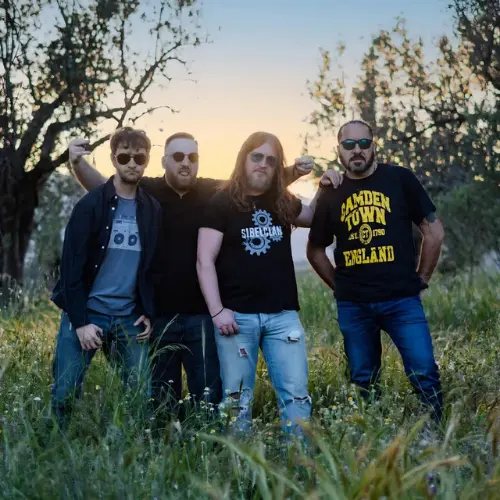
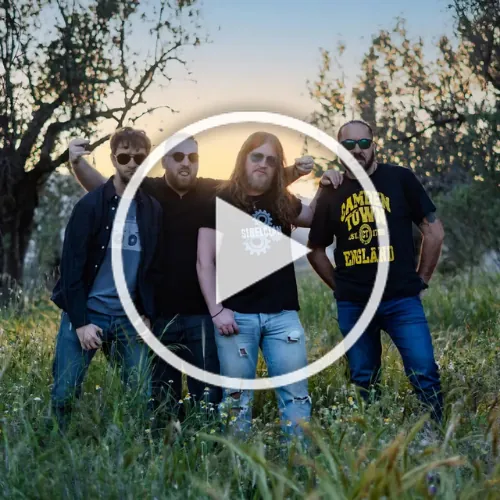
feat: add overlay to band image

Changed region(s): [[0.21, 0.21, 0.78, 0.81], [0.42, 0.39, 0.63, 0.63]]

diff --git a/themes/sibelclan/layouts/_default/landing2.html b/themes/sibelclan/layouts/_default/landing2.html
@@ -286,9 +286,7 @@
     <div id="bg"></div>
     <main>
         <div id="top">
-            
-                            <a href="https://open.spotify.com/track/{{ .Params.streaming_track_ids.spotify }}?si" target="_self" id="a" aria-label="Artwork" onclick="c(event)" data-s="spotify:track:{{ .Params.streaming_track_ids.spotify }}" data-a="intent://open.spotify.com/track/{{ .Params.streaming_track_ids.spotify }}#Intent;scheme=https;package=com.spotify.music;end"></a>
-                        
+            <a href="https://open.spotify.com/track/{{ .Params.streaming_track_ids.spotify }}?si" target="_self" id="a" aria-label="Artwork" onclick="c(event)" data-s="spotify:track:{{ .Params.streaming_track_ids.spotify }}" data-a="intent://open.spotify.com/track/{{ .Params.streaming_track_ids.spotify }}#Intent;scheme=https;package=com.spotify.music;end"></a>
             <div id="t">Sibelclan - {{ .Params.song_name }}</div>
             <div></div>
         </div>